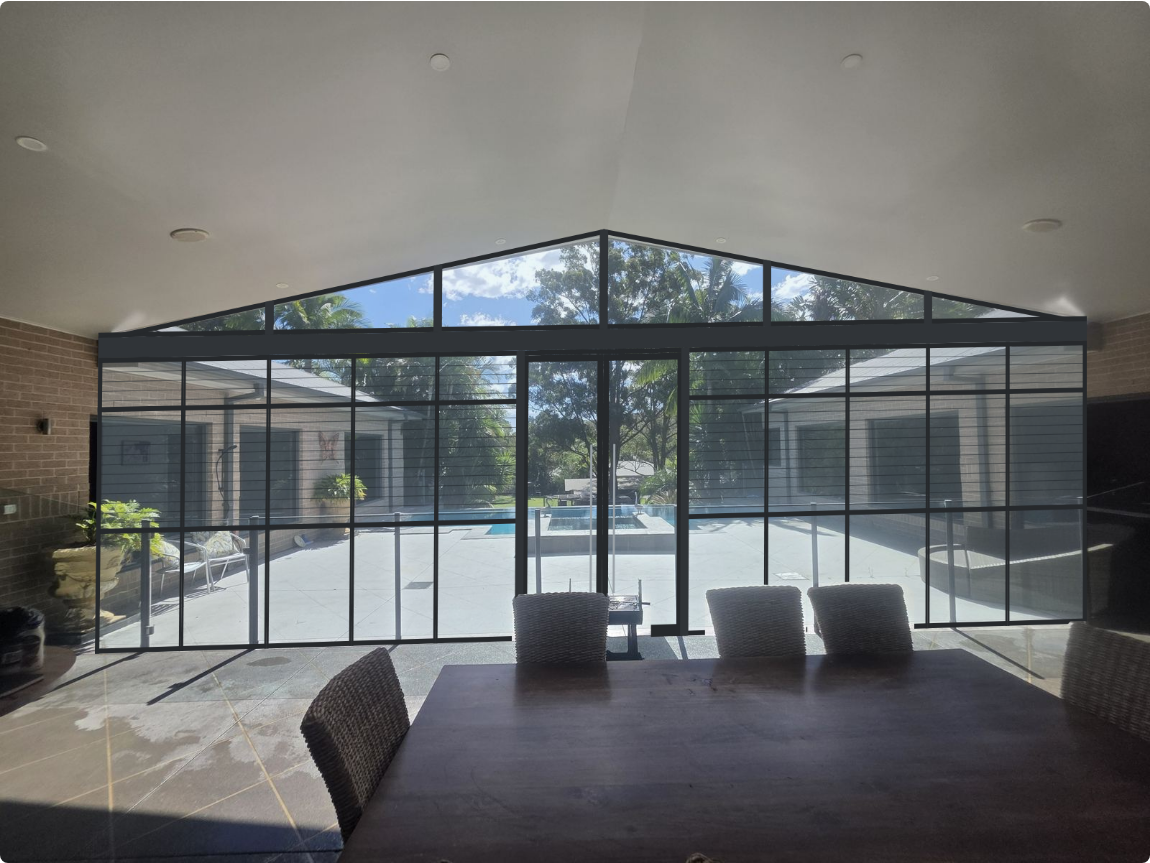
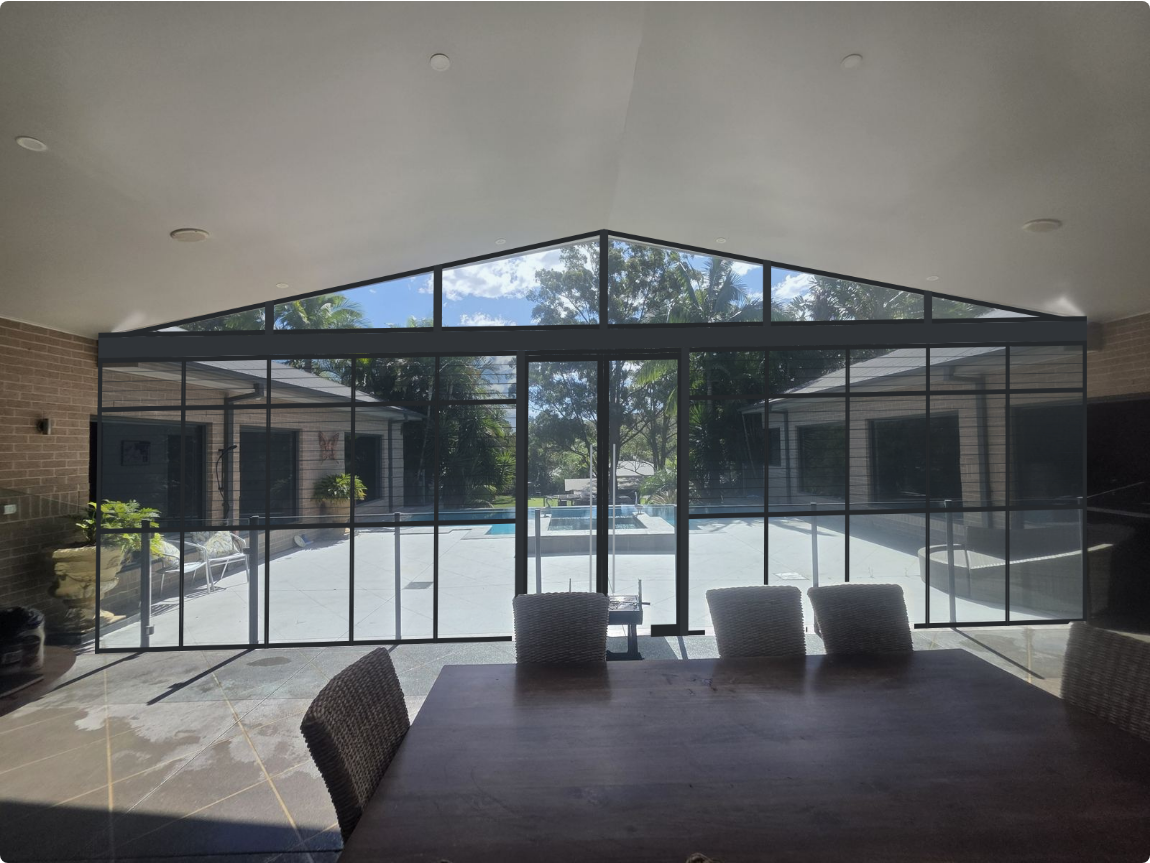
Show fixed security screens on all louvres
Louvres get fixed security mesh on the pool side, so they open fully
without restrictors. Updates the drawings, schedule and barrier notes.

Claude-Session: https://claude.ai/code/session_01B6p9XfXdBmKRCjqGApuNqA

Changed region(s): [[0.0609, 0.3917, 0.4565, 0.6327], [0.5783, 0.3917, 0.9435, 0.6025]]

diff --git a/pool-window-layout/index.html b/pool-window-layout/index.html
@@ -54,7 +54,7 @@
 <body>
 <header>
   <h1>Pool alfresco gable: window layout concepts</h1>
-  <p><b>First draft:</b> a glazed wall that replaces the glass pool fence on the same line and becomes the pool barrier. It's an even grid, with fixed glass to the 1,200 fence line, louvres above and double pivot doors in the centre. The doors open into a small square glass-fenced lobby on the pool side, with a self-closing gate out to the pool. The opening is 11,844 wide, and the 3,110 plate height is floor to the top of the steel beam, where the 9.7° rake starts (apex about 4,120). Gable posts line through above. Drag the settings and every drawing, dimension and the schedule update. Options A and B are kept as alternatives.</p>
+  <p><b>First draft:</b> a glazed wall that replaces the glass pool fence on the same line and becomes the pool barrier. It's an even grid, with fixed glass to the 1,200 fence line, louvres with fixed security screens above, and double pivot doors in the centre. The doors open into a small square glass-fenced lobby on the pool side, with a self-closing gate out to the pool. The opening is 11,844 wide, and the 3,110 plate height is floor to the top of the steel beam, where the 9.7° rake starts (apex about 4,120). Gable posts line through above. Drag the settings and every drawing, dimension and the schedule update. Options A and B are kept as alternatives.</p>
 </header>
 <main>
 <section>
@@ -71,7 +71,7 @@
   <div class="legend">
     <span><i style="background:#2f3337"></i>Aluminium frames (charcoal to match existing)</span>
     <span><i style="background:#4a5056"></i>Steel beam / posts</span>
-    <span><i style="background:#d6e6ee"></i>Glass louvres</span>
+    <span><i style="background:#d6e6ee repeating-linear-gradient(45deg,#5d707a55 0 1px,transparent 1px 4px),#d6e6ee"></i>Glass louvres + fixed security screen</span>
     <span><i style="background:#c3dbe6"></i>Fixed glass</span>
     <span><i style="background:#e6e0d5"></i>Clad pier</span>
     <span><i style="background:none;border:1.5px dashed #a5462b"></i>Pool fence top line (1200)</span>
@@ -124,6 +124,7 @@
     <div>
       <h3>Louvres</h3>
       <ul>
+        <li><b>Every louvre gets a fixed security screen</b> (stainless mesh, e.g. Crimsafe or similar), so the louvres can open fully and still meet the barrier rules. Fit the screens on the pool side, so the louvre handles stay reachable from inside the alfresco. They must only come off with a tool.</li>
         <li>Glass louvre blades are usually limited to about 1,200 mm long, so any wider bay is split into galleries with a mullion. The "max gallery width" setting controls that.</li>
         <li>The door-head transom keeps gallery heights around 1.2 to 2.4 m, within what most louvre systems cover. Confirm with the supplier (e.g. Breezway or similar).</li>
         <li>For option C, keep the narrow and wide rhythm from your sketch by changing which bays are louvres and which are fixed later. The grid stays the same.</li>
@@ -134,7 +135,8 @@
         <ul>
           <li><b>Doors open into a fenced lobby, not the pool area.</b> The square glass fence on the pool side, with its gate, separates the doors from the pool, so the pivot doors sit outside the barrier.</li>
           <li><b>Gate:</b> self-closing and self-latching, with the latch at 1,500 or higher, opening <i>into</i> the lobby (away from the pool), as in your sketch. The lobby needs to be deep enough for the gate to swing clear (the page warns you if it isn't).</li>
-          <li><b>Fixed glass from the floor to 1,200</b> along the rest of the wall is non-climbable and matches the fence height. The louvres above will probably need restrictors (opening under 105&nbsp;mm) or fixed screens. Confirm what's required at that height.</li>
+          <li><b>Fixed glass from the floor to 1,200</b> along the rest of the wall is non-climbable and matches the fence height. </li>
+          <li><b>The louvres have fixed security screens</b>, so they can open fully without restrictors. The screens must be fixed so they can't be removed without tools (AS&nbsp;1926.1 and the NSW rules). Give the certifier the screen product's specification.</li>
           <li>Keep the inside of the lobby clear of anything climbable within 900 of the fence, which is easy because the doors and walls are glass. The bench seat is on the pool side, which is fine.</li>
           <li>The old fence's glass panels and spigots could be reused for the lobby.</li>
         </ul>
@@ -201,7 +203,7 @@ function geom(S){
       let typ=mode==='door'?(S.hl==='louvre'?'louvre':'fixed'):isBase?'fixed':isTop?(S.hl==='louvre'?'louvre':'fixed'):'louvre';
       const gal=b.gal||[[x0,x1]];
       gal.forEach(([a,c])=>{R(typ==='louvre'?'louvre':'glass',a,y0,c,y1);if(typ==='louvre')blades(a,c,y0,y1);
-        items.push({kind:typ==='louvre'?'Glass louvre':'Fixed glass',zone:mode==='door'?'Door highlight':(isBase?'Base (fence line)':isTop?'Highlight':'Main'),w:c-a,h:y1-y0});});
+        items.push({kind:typ==='louvre'?'Glass louvre + security screen':'Fixed glass',zone:mode==='door'?'Door highlight':(isBase?'Base (fence line)':isTop?'Highlight':'Main'),w:c-a,h:y1-y0});});
       if(k>0)R('frame',x0,y0-h,x1,y0+h);
     }
     gal_mullions(b);
@@ -305,6 +307,9 @@ function drawSVG(S,G){
   const st={pier:{fill:'#e6e0d5',stroke:'#bdb3a2','stroke-width':8},glass:{fill:'#c3dbe6'},louvre:{fill:'#d6e6ee'},frame:{fill:'#2f3337'},steel:{fill:'#4a5056',stroke:'#2b2f33','stroke-width':6},hw:{fill:'#c9ced2'}};
   ['pier','glass','louvre'].forEach(k=>G.L[k].forEach(p=>el('polygon',{points:P(p),...st[k]},g)));
   G.L.blade.forEach(([[a,y],[c]])=>el('line',{x1:a,y1:-y,x2:c,y2:-y,stroke:'#86a3b1','stroke-width':9},g));
+  const mp=el('pattern',{id:'mesh',width:60,height:60,patternUnits:'userSpaceOnUse'},defs);
+  el('path',{d:'M0 0L60 60M60 0L0 60',stroke:'#4f626c','stroke-width':3,opacity:0.55},mp);
+  G.L.louvre.forEach(p=>el('polygon',{points:P(p),fill:'url(#mesh)'},g));
   ['frame','steel','hw'].forEach(k=>G.L[k].forEach(p=>el('polygon',{points:P(p),...st[k]},g)));
   // door swing marks
   G.bays.filter(b=>b.t==='D'&&b.dl).forEach(b=>{const dh=b.dh;b.dl.forEach(([a,c],i)=>{
@@ -452,7 +457,7 @@ function drawMontage(S,G){
   const poly=(p,fill)=>{ctx.beginPath();p.map(T).forEach(([u,v],i)=>i?ctx.lineTo(u,v):ctx.moveTo(u,v));ctx.closePath();ctx.fillStyle=fill;ctx.fill();};
   G.L.pier.forEach(p=>poly(p,'#d8d0c2'));
   G.L.glass.forEach(p=>poly(p,'rgba(185,212,226,0.20)'));
-  G.L.louvre.forEach(p=>poly(p,'rgba(185,212,226,0.26)'));
+  G.L.louvre.forEach(p=>poly(p,'rgba(60,72,80,0.30)'));
   ctx.strokeStyle='rgba(35,40,45,0.55)';ctx.lineWidth=1.1;
   G.L.blade.forEach(([a,b])=>{const A=T(a),B=T(b);ctx.beginPath();ctx.moveTo(...A);ctx.lineTo(...B);ctx.stroke();});
   G.L.frame.forEach(p=>poly(p,'#26292c'));
@@ -469,7 +474,7 @@ function drawSchedule(G){
   const groups=new Map();
   G.items.forEach(it=>{const key=[it.kind,it.zone,Math.round(it.w),Math.round(it.h),Math.round(it.h2||0)].join('|');
     const g=groups.get(key)||{...it,q:0};g.q++;groups.set(key,g);});
-  const order={'Pool fence glass':4,'Glass pool gate':5,'Pivot door leaf':0,'Glass louvre':1,'Fixed glass':2,'Raked fixed glass':3};
+  const order={'Pool fence glass':4,'Glass pool gate':5,'Pivot door leaf':0,'Glass louvre + security screen':1,'Fixed glass':2,'Raked fixed glass':3};
   const rows=[...groups.values()].sort((a,b)=>order[a.kind]-order[b.kind]||a.zone.localeCompare(b.zone)||b.w-a.w);
   let html='<tr><th>Ref</th><th>Type</th><th>Zone</th><th class="n">Width</th><th class="n">Height</th><th class="n">Qty</th><th class="n">Area m² (total)</th></tr>';
   let tot=0;
